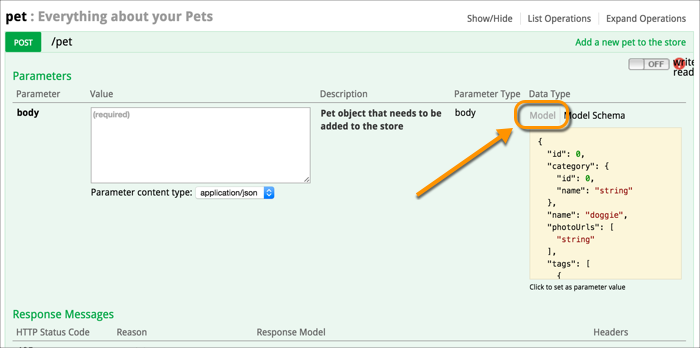
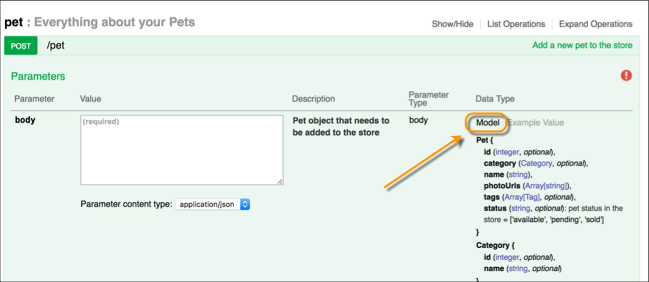
content update

Changed region(s): [[0.0, 0.0, 1.0, 1.0], [0.1233, 0.6525, 0.4314, 0.766], [0.4314, 0.6241, 0.4622, 0.6525]]

diff --git a/_restapicourse/docapis_doc_parameters.md b/_restapicourse/docapis_doc_parameters.md
@@ -208,34 +208,34 @@ Now click **Model** (the grayed out text) and look at the view.
 
 This view describes the various parts of the request, noting the data types and any descriptions in your Swagger spec. Here's the Model:
 
-```
+```json
 Pet {
-id (integer, optional),
-category (Category, optional),
-name (string),
-photoUrls (Array[string]),
-tags (Array[Tag], optional),
-status (string, optional): pet status in the store = ['available', 'pending', 'sold']
+    id (integer, optional),
+    category (Category, optional),
+    name (string),
+    photoUrls (Array[string]),
+    tags (Array[Tag], optional),
+    status (string, optional): pet status in the store = ['available', 'pending', 'sold']
 }
 Category {
-id (integer, optional),
-name (string, optional)
+    id (integer, optional),
+    name (string, optional)
 }
 Tag {
-id (integer, optional),
-name (string, optional)
+    id (integer, optional),
+    name (string, optional)
 }
 ```
 
-The Petstore spec doesn't actually include many parameter descriptions in the Model, but for any descriptions that are included, they appear here in the Model.
+The Petstore spec doesn't actually include many parameter descriptions in the Model, but for any descriptions that are included, they appear here in the Model rather than the Example Value.
 
 In this view, when there's a nested object, like `category`, it has a reference to another part of the model. You have to look at "Category" for details about category and look at "Tag" for details about tags.
 
-<img src="{{ "/images_api/swagger-model.png" | prepend: site.baseurl }}" alt="Model versus Model Schema" />
+<img src="{{ "/images_api/swagger-model.png" | prepend: site.baseurl }}" alt="Reading the Model" />
 
 Presumably the Model format appears like this because there's not enough room to visually depict nested objects in one inch of space. But it could potentially mislead users into thinking that you have multiple objects listed one after another instead of nested inside each other. 
 
-Ultimately, I'm not sure how useful the Model view is beyond providing a place to describe the objects and properties. I'm also not sure why the Swagger team didn't include descriptions of each parameter in the request body, because those descriptions could appear in the Model view and thereby provide more rationale for having the Model View in the first place.
+Ultimately, I'm not sure how useful the Model view is beyond providing a place to describe the objects and properties. I'm also not sure why the Swagger team didn't include descriptions of each parameter in the request body, because those descriptions could appear in the Model view and thereby provide more rationale for having the Model view in the first place.
 
 ## Custom-styled tables
 
@@ -251,7 +251,7 @@ However, this approach requires more manual work from a documentation point of v
 
 ## Conclusion
 
-You can see that there's a lot of variety in documenting JSON and XML responses. Peter's course helps start the discussion about how to document these types of information.
+You can see that there's a lot of variety in documenting JSON and XML responses. There's no right way to document the parameters, except to choose the method that depicts the parameters in the clearest, easiest to read way.
 
 ## Construct a table to list the surfreport parameters
 
